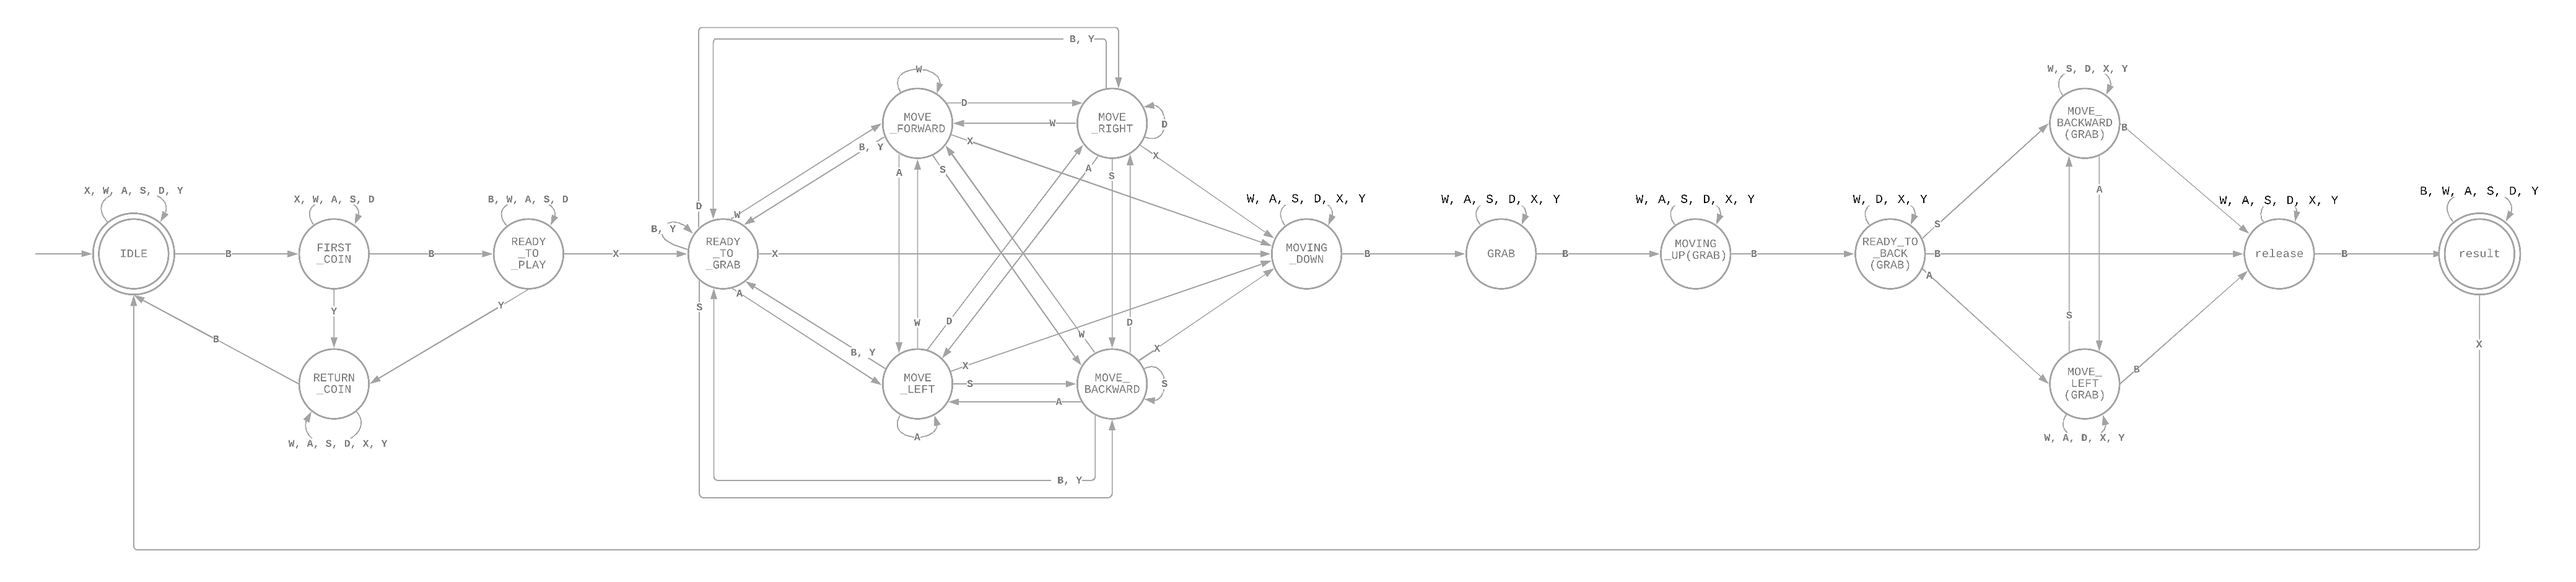
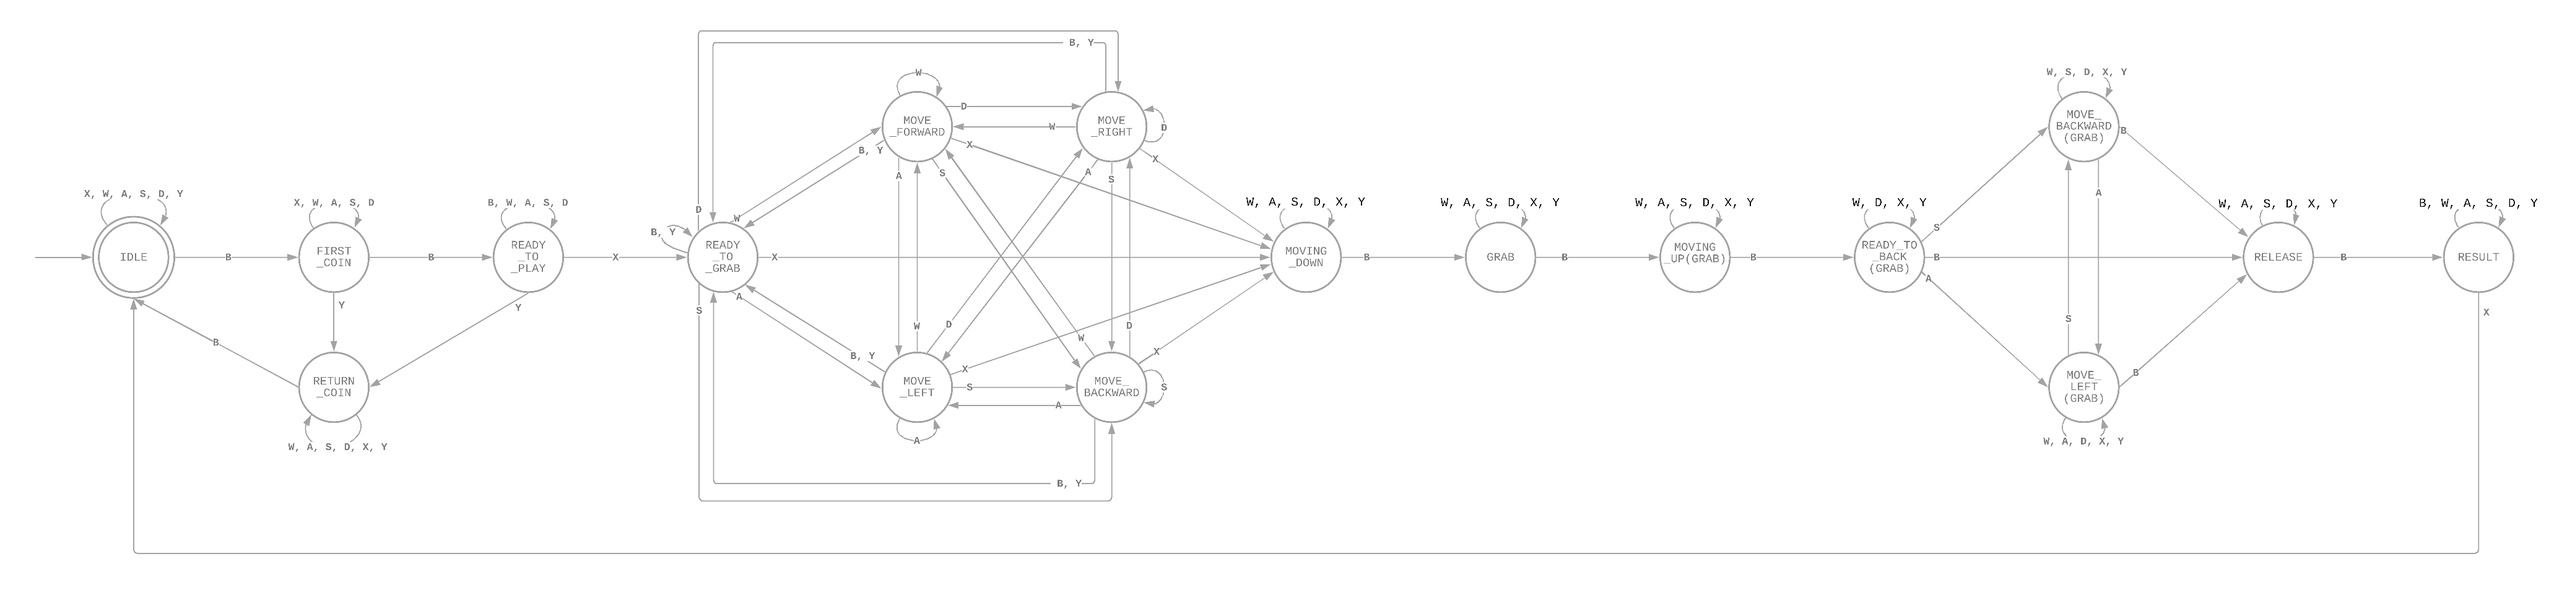
FIX: change RESULT to non final state, remove scale

diff --git a/src/components/DFAGraph/index.tsx b/src/components/DFAGraph/index.tsx
@@ -29,7 +29,7 @@ const DFAGraph: React.FC = () => {
                 </div>
                 <div className="star star-right"></div>
             </HeaderContainer>
-            <MapContainer style={{ width: calculatedWidth }}>
+            <MapContainer>
                 <MapInteractionCSS>
                     <img src={dfa_graph} alt="dfa-graph" />
                     <DFANode state={currentState} />
@@ -102,7 +102,7 @@ const HeaderContainer = styled.div`
 
 const MapContainer = styled.div`
     height: 1150px;
-    min-width: 400px;
+    width: calc(100vw - 895px);
     border-radius: 15px;
     border: 10px #e85f99 solid;
 

diff --git a/src/store/dfa_machine.ts b/src/store/dfa_machine.ts
@@ -1,14 +1,14 @@
 import { atom } from "recoil";
 import { iMachine } from "../types/dfa.types";
 
-export const nodeRow = [200, 410, 620];
+export const nodeRow = [205, 416, 626];
 export const nodeCol = [
     216,
     539,
     853,
     1167,
     1481,
-    1794,
+    1795,
     2109,
     2423,
     2737,
@@ -122,7 +122,6 @@ const initialMachine: iMachine = {
             name: "RESULT",
             x: nodeCol[12],
             y: nodeRow[1],
-            isFinal: true,
         },
     ],
     transitions: [

diff --git a/src/App.tsx b/src/App.tsx
@@ -22,8 +22,7 @@ const App = (): React.ReactElement => {
 
 const Container = styled.div<ContainerProps>`
     display: flex;
-    transform-origin: top left;
-    transform: scale(${(p) => p.scale});
+    max-width: 100vw;
 `;
 
 export default App;

diff --git a/src/store/dfa_current_state.ts b/src/store/dfa_current_state.ts
@@ -7,7 +7,7 @@ const DFACurrentState = atom({
         id: 1,
         name: "IDLE",
         x: 216,
-        y: 410,
+        y: 416,
         isFinal: true,
     } as iState,
 });
